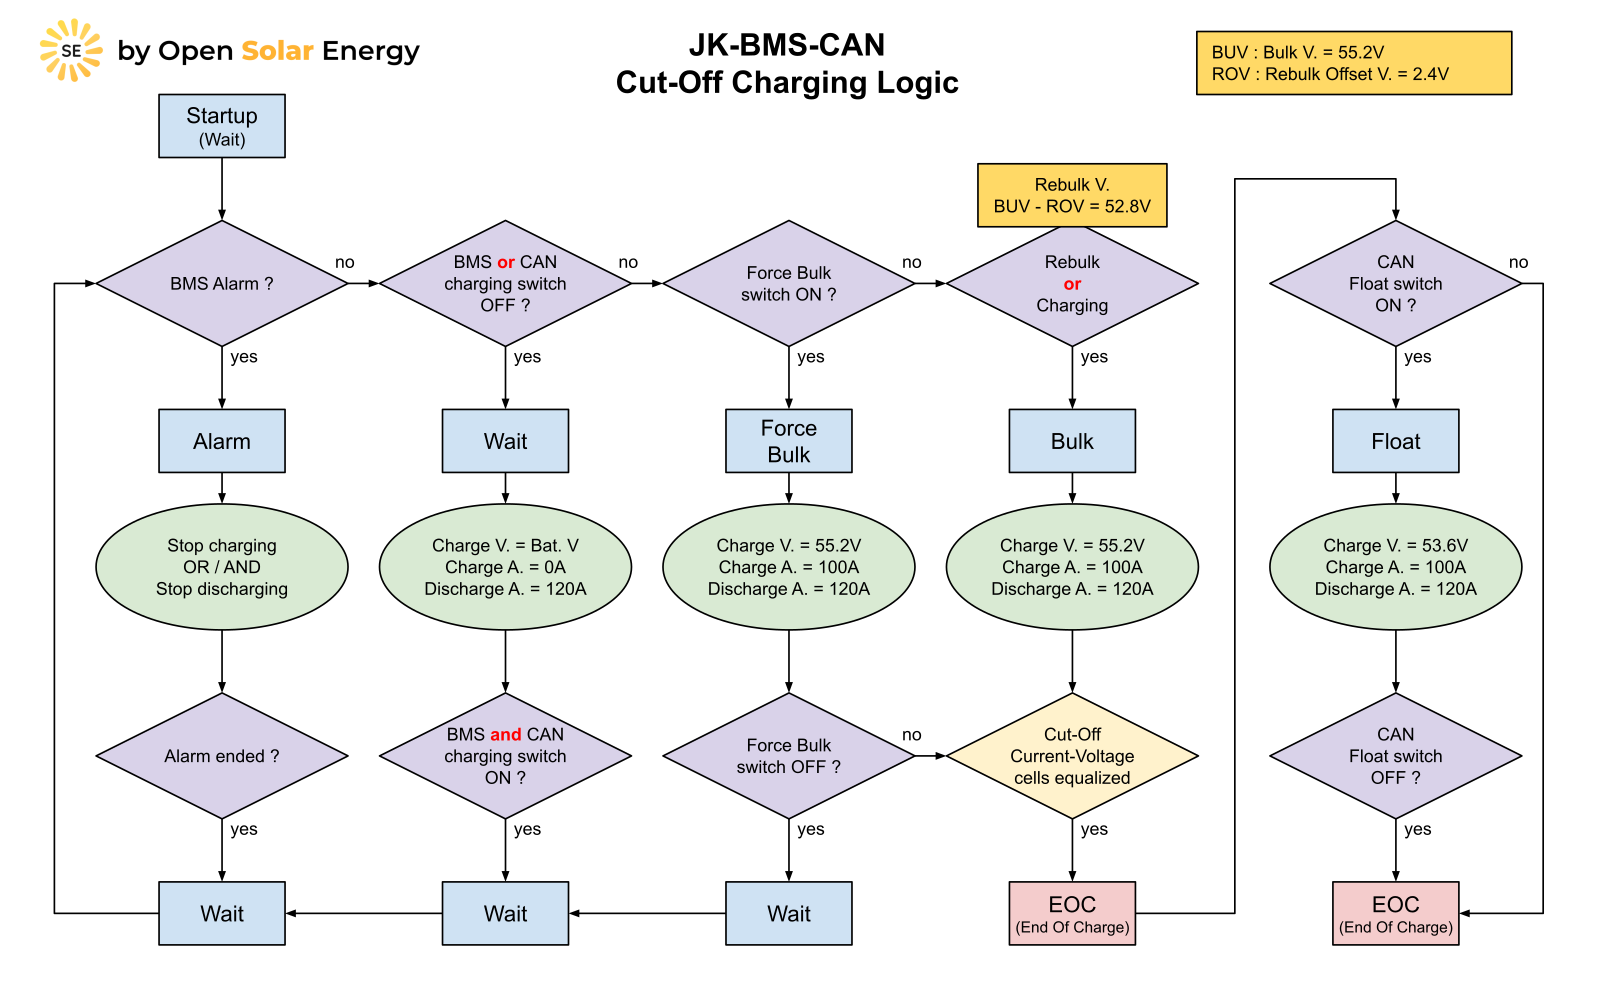
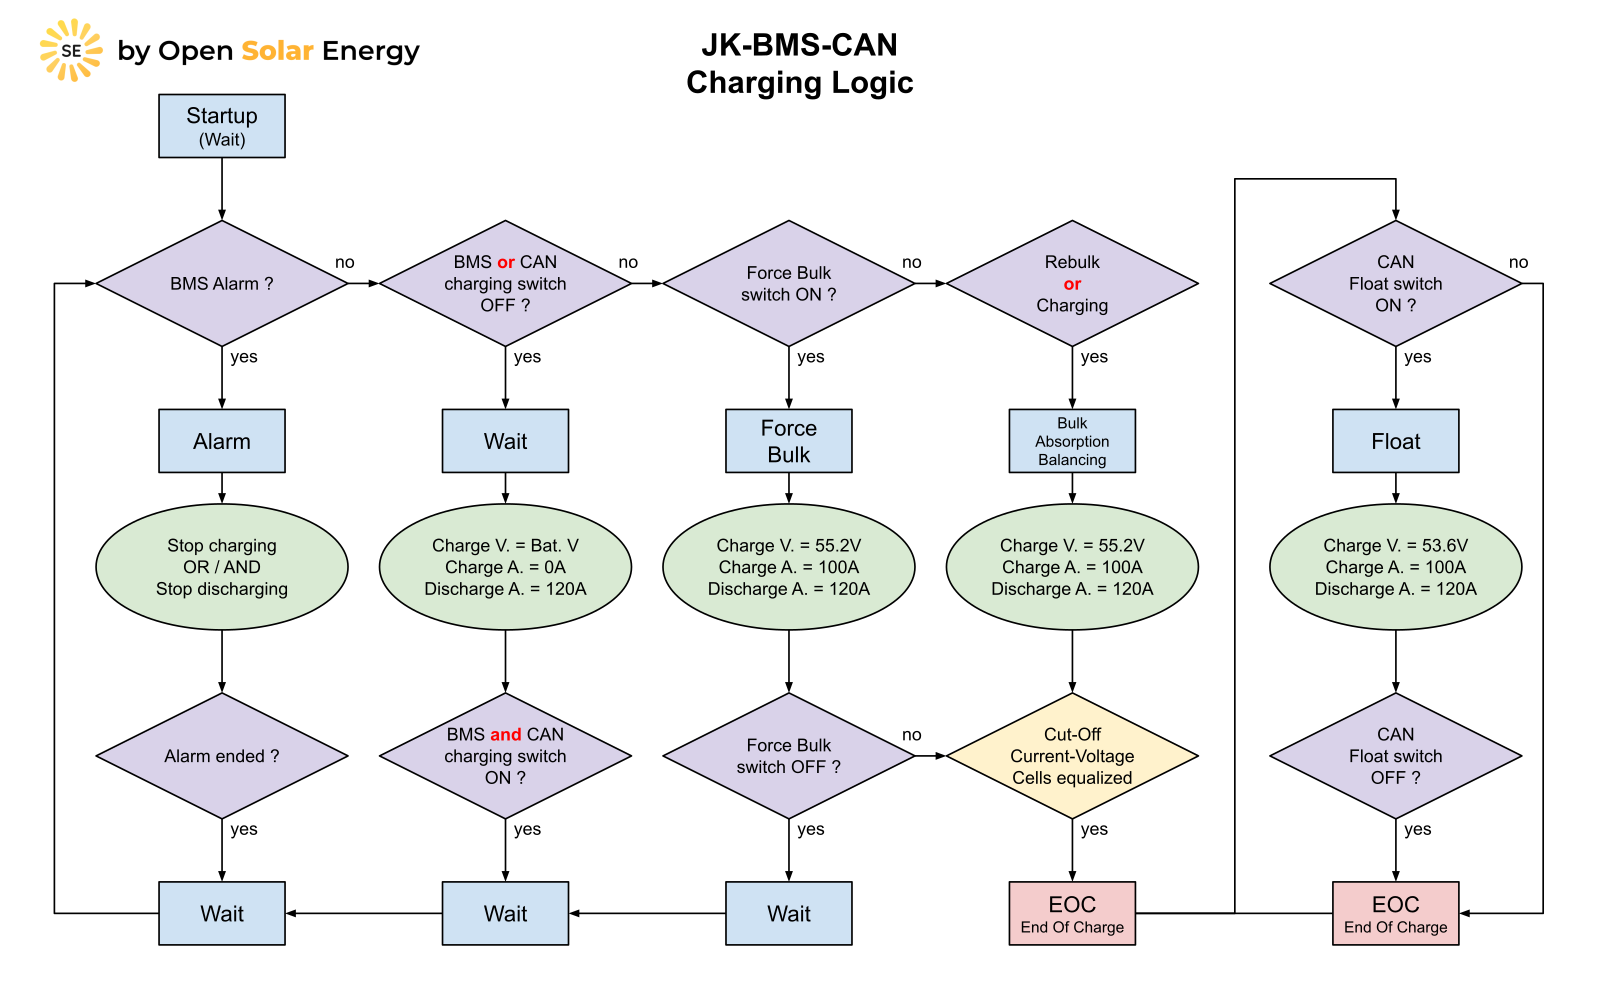
V1.17.3

diff --git a/documents/README/Cut-Off_Charging_Logic.md b/documents/README/Cut-Off_Charging_Logic.md
@@ -1,0 +1,31 @@
+# JK-BMS-CAN
+
+[![Badge License: GPLv3](https://img.shields.io/badge/License-GPLv3-brightgreen.svg)](https://www.gnu.org/licenses/gpl-3.0)
+[![Badge Version](https://img.shields.io/github/v/release/Sleeper85/esphome-jk-bms-can?include_prereleases&color=yellow&logo=DocuSign&logoColor=white)](https://github.com/Sleeper85/esphome-jk-bms-can/releases/latest)
+![GitHub stars](https://img.shields.io/github/stars/Sleeper85/esphome-jk-bms-can)
+![GitHub forks](https://img.shields.io/github/forks/Sleeper85/esphome-jk-bms-can)
+![GitHub watchers](https://img.shields.io/github/watchers/Sleeper85/esphome-jk-bms-can)
+
+## Cut-Off Charging Logic Equation
+
+Note: The equations below are valid for other chemistries like Li-ion and LTO but with other CVmin and CVmax values.
+
+![Image](images/JK-BMS-CAN_Cut-Off_Charging_Logic_for_LFP_Equation.png "JK-BMS-CAN Cut-Off Charging Logic_for LFP Equation")
+
+## Cut-Off Charging Logic Diagram
+
+Note: The diagram below is valid for other chemistries like Li-ion and LTO but with other CVmin and CVmax values.
+
+![Image](images/JK-BMS-CAN_Cut-Off_Charging_Logic_for_LFP_Diagram.png "JK-BMS-CAN Cut-Off Charging Logic_for LFP Diagram")
+
+## LFP Cut-Off Values
+
+![Image](images/JK-BMS-CAN_LFP_Cut-Off_Values.png "JK-BMS-CAN LFP Cut-Off Values")
+
+## Li-ion Cut-Off Values
+
+![Image](images/JK-BMS-CAN_Li-ion_Cut-Off_Values.png "JK-BMS-CAN Li-ion Cut-Off Values")
+
+## LTO Cut-Off Values
+
+Will be added in the future.
